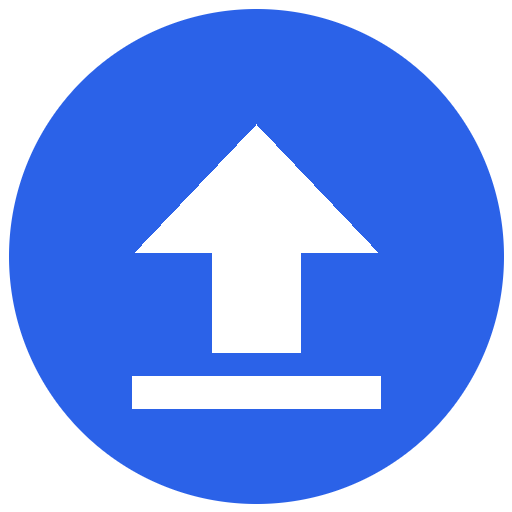
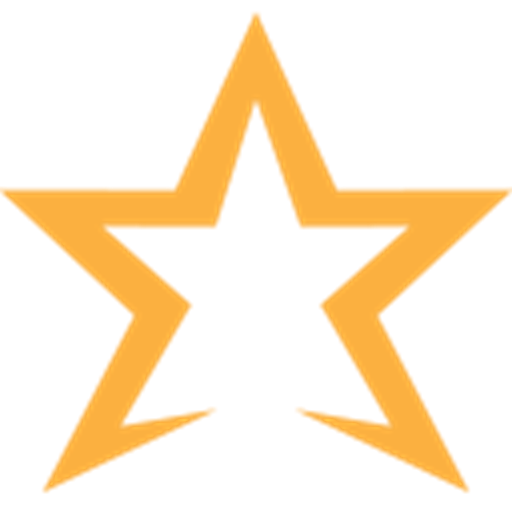
아이콘을 사이트 파비콘(별)으로, 로그 열기 메뉴 제거, 등록 토스트는 대기열이 빌 때 한 번만
- assets/icon.png: 사이트 favicon.png(128)를 512로 키워 넣는다(윈도우 ico 256·맥 dmg 512 요구). make-icon.mjs 삭제.
- 트레이 메뉴 "로그 열기" 제거(로그 파일은 그대로 남긴다).
- 토스트를 시간(3초/12초)으로 모으니 파일 하나 올리는 데 그보다 오래 걸려 건마다 따로 떴다.
  watcher에 onIdle을 두고 대기열이 다 빠졌을 때 "리플레이 N건을 스타게이트에 등록했습니다." 한 번만.
  첫 훑기 시작 토스트는 빼고 OS 알림 하나만 남긴다.
- 0.3.1

diff --git a/src/main.ts b/src/main.ts
@@ -9,7 +9,7 @@ import { INITIAL_SCAN_FROM, RETRY_MAX, RETRY_MS, SITE_BASE, UPLOADER_PAGE, VERSI
 import { initLog, log } from "./log";
 import { SitePage, type PageUser } from "./page";
 import { Store } from "./store";
-import { showToast, toastUploaded } from "./toast";
+import { flushUploaded, noteUploaded } from "./toast";
 import { ReplayWatcher } from "./watcher";
 
 // 한 번에 하나만 — 두 번 켜면 먼저 켜진 쪽이 그대로 남는다.
@@ -114,7 +114,6 @@ function refreshTray(): void {
     { label: "지금 폴더 다시 검사", click: () => { void watcher?.rescan(); }, enabled: !!watcher },
     { label: "리플레이 폴더 열기", click: () => { void shell.openPath(replayDir()); } },
     { label: "스타게이트 열기", click: () => { void shell.openExternal(SITE_BASE); } },
-    { label: "로그 열기", click: () => { void shell.openPath(join(app.getPath("userData"), "uploader.log")); } },
     { type: "separator" },
     { label: user ? "다른 계정으로 로그인" : "로그인", click: () => { if (user) page.logout(); else page.show(); } },
     { label: "종료", click: () => { app.quit(); } },
@@ -136,14 +135,16 @@ function startWatching(): void {
       return (e.tries ?? 0) >= RETRY_MAX || Date.now() - Date.parse(e.at) < RETRY_MS;
     },
     onFile: handleFile,
+    // 대기열이 다 빠졌을 때 한 번 — 그동안 올라간 건수를 토스트 하나로 알린다.
+    onIdle: flushUploaded,
     onBatch: (n) => {
-      // 처음 설치한 뒤의 첫 훑기 — 옛 리플레이를 한 번에 올리니 무엇을 하는지 알린다.
+      // 처음 설치한 뒤의 첫 훑기 — 옛 리플레이를 한 번에 올리니 무엇을 하는지 알린다(알림 하나만,
+      // 토스트는 다 올라간 뒤 "N건을 등록했습니다"로 한 번).
       if (!store.ledger.firstRun) return;
       store.ledger.firstRun = false;
       if (n === 0) return;
       const from = INITIAL_SCAN_FROM.slice(0, 10);
       log(`첫 훑기: ${from} 이후 리플레이 ${n}건`);
-      showToast(`${from} 이후 리플레이 ${n}건을 스타게이트에 올립니다.`);
       notify("스타게이트 등록기", `${from} 이후 리플레이 ${n}건을 찾아 차례로 올려요. 끝나면 알려드릴게요.`);
     },
   });
@@ -162,13 +163,13 @@ async function handleFile(path: string): Promise<void> {
       store.ledger.files[path] = { at, status: "registered", matchNo: out.matchNo, note: out.summary };
       log(`등록 ${out.matchNo}: ${name} — ${out.summary}`);
       noteRecent(`✔ 등록 ${out.matchNo} · ${out.summary}`);
-      toastUploaded();
+      noteUploaded();
     } else if (out.kind === "merged" || out.kind === "duplicate") {
       store.ledger.files[path] = { at, status: out.kind, note: out.summary };
       log(`${out.kind === "merged" ? "기존 경기에 갱신" : "이미 등록됨"}: ${name} — ${out.summary}`);
       noteRecent(`${out.kind === "merged" ? "↻ 기존 경기 갱신" : "= 이미 등록됨"} · ${out.summary}`);
       // 다른 사람이 먼저 올린 같은 경기도 "올라갔다"로 센다 — 내 파일이 사이트에 반영된 건 같다.
-      if (out.kind === "merged") toastUploaded();
+      if (out.kind === "merged") noteUploaded();
     } else {
       store.ledger.files[path] = { at, status: "skipped", note: out.reason };
       log(`건너뜀: ${name} — ${out.reason}`);

diff --git a/src/toast.ts b/src/toast.ts
@@ -1,5 +1,5 @@
 // 화면 오른쪽 아래 작은 오버레이 토스트 — 창 테두리 없고 투명, 항상 위, 클릭은 통과.
-// "리플레이 N건이 스타게이트에 업로드되었습니다." 같이 한 줄만 몇 초 보였다 사라진다.
+// "리플레이 N건을 스타게이트에 등록했습니다." 같이 한 줄만 몇 초 보였다 사라진다.
 // (스타를 전체화면(독점)으로 켠 동안은 다른 창처럼 가려질 수 있다 — 창모드 전체화면은 보인다.)
 import { BrowserWindow, screen } from "electron";
 import { join } from "node:path";
@@ -37,22 +37,18 @@ export function showToast(text: string): void {
   });
 }
 
-// 등록은 한 판씩 이어져 들어오므로, 잠깐 모았다가 "N건"으로 한 번에 알린다.
+// 등록은 한 판씩 이어져 들어오므로(첫 훑기엔 수십 건) 건마다 띄우지 않고 세어 두었다가,
+// 대기열이 다 빠졌을 때(watcher의 onIdle) "N건"으로 한 번만 알린다. 시간으로 모으면 파일 하나
+// 올리는 데 그보다 오래 걸려 건마다 따로 떴다.
 let pending = 0;
-let firstAt = 0;
-let flushTimer: NodeJS.Timeout | null = null;
-const GATHER_MS = 3000;
-const GATHER_MAX_MS = 12000;
 
-export function toastUploaded(count = 1): void {
-  if (pending === 0) firstAt = Date.now();
+export function noteUploaded(count = 1): void {
   pending += count;
-  if (flushTimer) clearTimeout(flushTimer);
-  const wait = Math.max(0, Math.min(GATHER_MS, firstAt + GATHER_MAX_MS - Date.now()));
-  flushTimer = setTimeout(() => {
-    const n = pending;
-    pending = 0;
-    flushTimer = null;
-    showToast(`리플레이 ${n}건이 스타게이트에 업로드되었습니다.`);
-  }, wait);
+}
+
+export function flushUploaded(): void {
+  if (pending === 0) return;
+  const n = pending;
+  pending = 0;
+  showToast(`리플레이 ${n}건을 스타게이트에 등록했습니다.`);
 }

diff --git a/src/watcher.ts b/src/watcher.ts
@@ -16,6 +16,8 @@ export interface WatcherOptions {
   onFile: (path: string) => Promise<void>;
   /** 재훑기 한 번이 끝날 때마다 새로 잡힌 파일 수(0 포함) — 첫 훑기 안내용. */
   onBatch?: (count: number) => void;
+  /** 대기열의 파일을 다 처리하고 쉬게 될 때마다 — 모아 둔 알림을 내보내는 용도. */
+  onIdle?: () => void;
 }
 
 export class ReplayWatcher {
@@ -92,6 +94,7 @@ export class ReplayWatcher {
     } finally {
       this.running = false;
     }
+    this.opt.onIdle?.();
   }
 
   async rescan(): Promise<void> {

diff --git a/README.md b/README.md
@@ -19,9 +19,9 @@
 1. 설치하면 바로 뜨고, 이후 윈도우·맥에 로그인할 때마다 자동으로 켜진다(트레이/메뉴 막대 아이콘, 맥은 독에 안 나온다).
 2. 처음 한 번 홈페이지 아이디·비밀번호로 로그인한다(숨은 창이 그때만 보인다).
 3. 처음 설치하면 2026-07-01(KST) 이후의 리플레이를 한 번 훑어 오래된 것부터 차례로 올린다
-   (시작할 때 몇 건인지 토스트·알림으로 알린다). 그 뒤로는 새 `.rep`가 생기면 다 써질 때까지
-   3초 기다렸다가 처리한다. 올라갈 때마다 화면 오른쪽 아래에 "리플레이 N건이 스타게이트에
-   업로드되었습니다." 오버레이 토스트가 뜬다(연달아 올라가면 몇 건씩 모아서).
+   (시작할 때 몇 건인지 알림으로 알린다). 그 뒤로는 새 `.rep`가 생기면 다 써질 때까지
+   3초 기다렸다가 처리한다. 밀린 파일을 다 올리고 나면 화면 오른쪽 아래에 "리플레이 N건을
+   스타게이트에 등록했습니다." 오버레이 토스트가 한 번 뜬다(건마다 따로 뜨지 않는다).
 4. 처리 = 파일을 사이트 창에 넘김 → 사이트가 검토 화면과 같은 절차(파싱 → 회원 매칭 →
    알려진 이름 분류 → 규칙 → 중복이면 머지, 아니면 등록)를 돌리고 결과를 돌려줌.
 

diff --git a/HANDOFF.md b/HANDOFF.md
@@ -20,7 +20,7 @@
    사이트 검토창은 자동 제외(되돌릴 수 있음), 등록기는 건너뜀.
 5. 유즈맵·팀 못 나눔·관전자 추정·2분 미만 → 건너뜀. 컴퓨터 낀 경기 → 등록.
 6. Electron, NSIS 원클릭, 윈도우 시작 시 자동 실행. 처음 설치하면 2026-07-01(KST) 이후 리플레이를
-   한 번 훑어 올린다. 오른쪽 아래 토스트 "리플레이 N건이 스타게이트에 업로드되었습니다."
+   한 번 훑어 올린다. 다 올리고 나면 오른쪽 아래 토스트 "리플레이 N건을 스타게이트에 등록했습니다." 한 번.
 7. 운영 사이트는 https://stargayte.vercel.app (API는 https://stargayte-api.up.railway.app). 빌드 기본값이
    그것이고 `UPLOADER_SITE_BASE`로 바꿀 수 있다(로컬 vite dev에 붙일 때).
 
